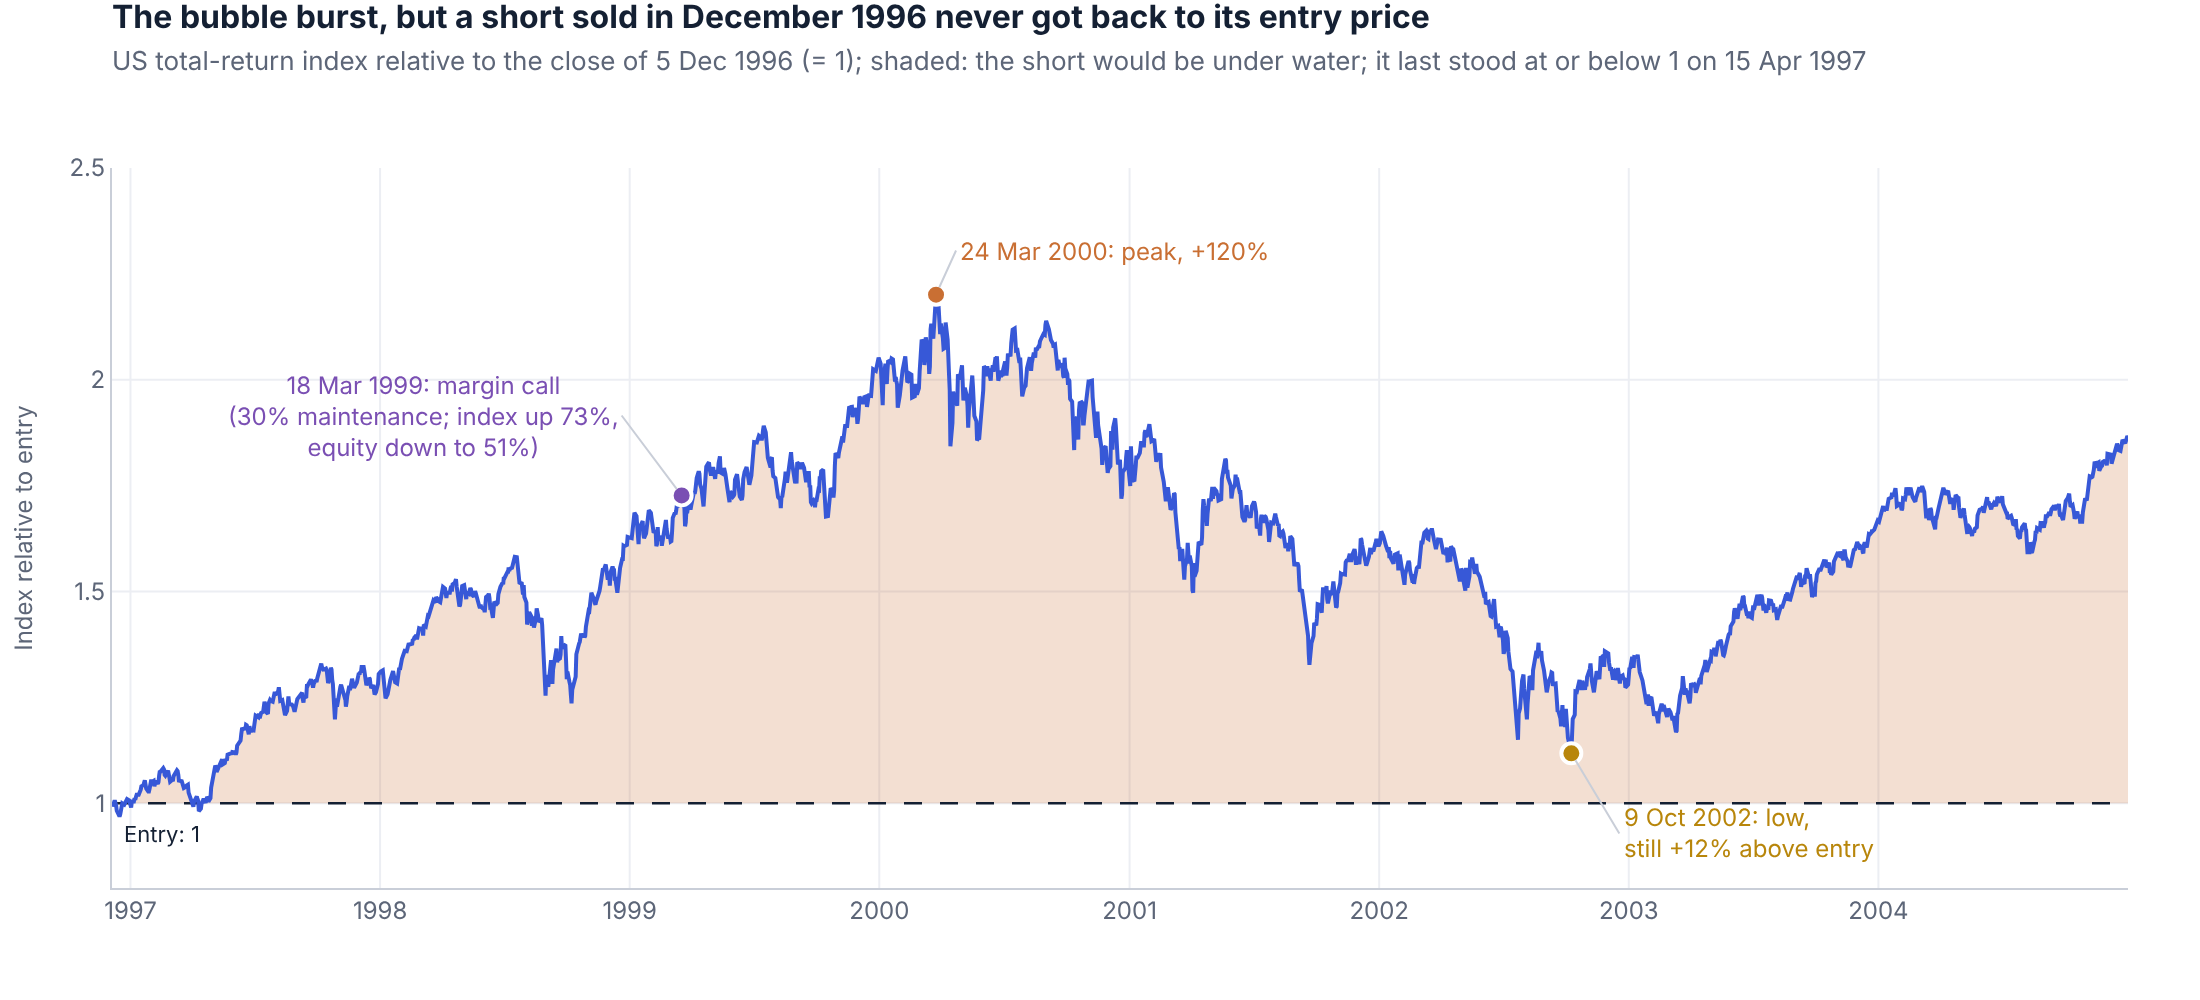
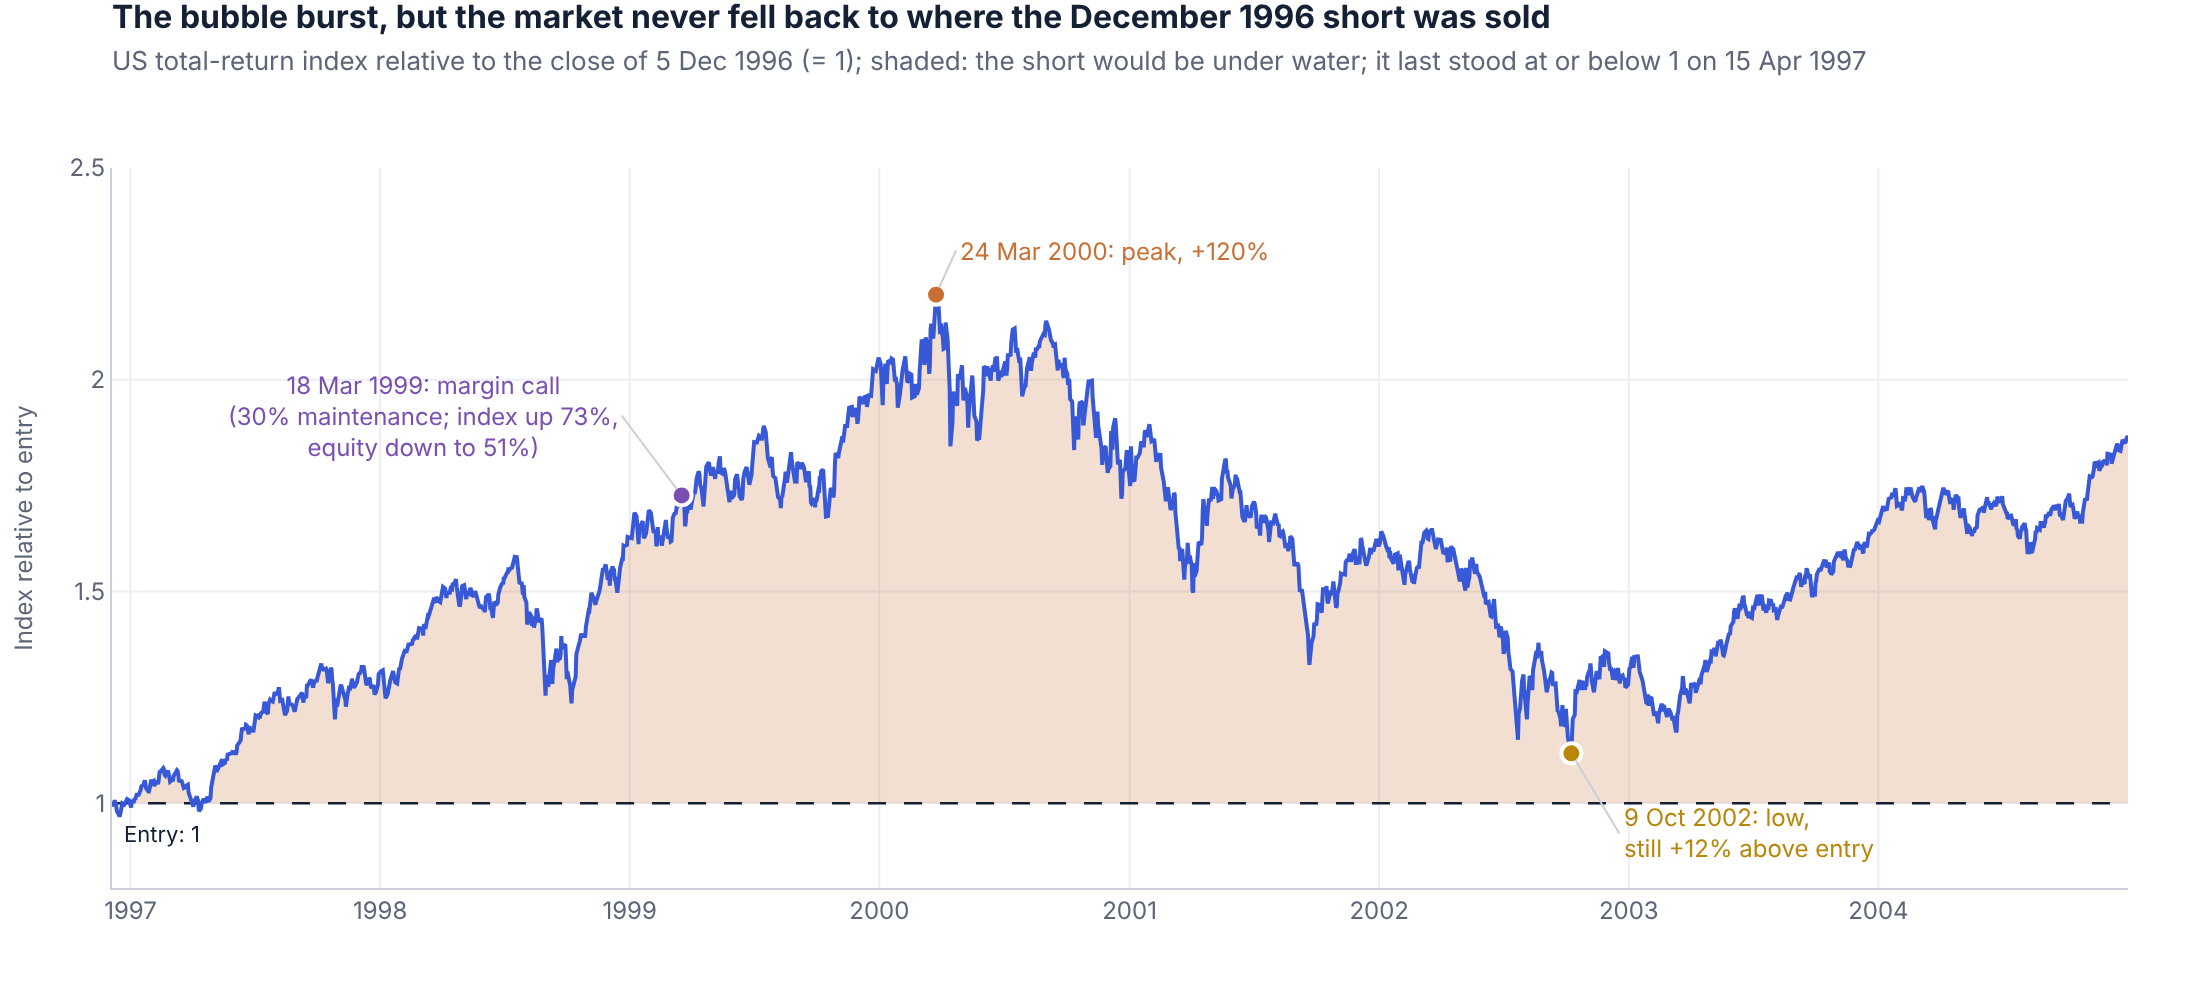
State the total-return short convention; Figure 8 title follows the corrected reading
Claude-Session: https://claude.ai/code/session_01Xkw4Km4MejYDcNMLdGn2oH

Changed region(s): [[0.1855, 0.0, 0.7109, 0.031]]

diff --git a/scripts/make_figures.py b/scripts/make_figures.py
@@ -774,7 +774,7 @@ def fig8():
          "marker": {"size": 10, "color": [PURPLE, ORANGE, GOLD], "line": {"color": "white", "width": 2}}, "hoverinfo": "skip",
          "showlegend": False},
     ]
-    head = "The bubble burst, but a short sold in December 1996 never got back to its entry price"
+    head = "The bubble burst, but the market never fell back to where the December 1996 short was sold"
     sub = (f"US total-return index relative to the close of {fdate(entry)} (= 1); shaded: the short would be under water; "
            f"it last stood at or below 1 on {fdate(last_below)}")
     sub_n = f"US total-return index, 5 Dec 1996 = 1;<br>shaded: a 1× short would be under water"
@@ -789,7 +789,7 @@ def fig8():
                   dstr(low), float(x.loc[low]), 24 if not narrow else 0, 40 if not narrow else 40, anchor="left" if not narrow else "center", color=GOLD),
             note("Entry: 1", dstr(x.index[0]), 1, anchor="left", yanchor="top", yshift=-6, xshift=4, color=INK, size=11),
         ]
-        return base_layout(head if not narrow else "The bubble burst, but the short<br>never got back to its entry price",
+        return base_layout(head if not narrow else "The bubble burst, but the market never<br>fell back to the short's entry",
                            sub if not narrow else sub_n, 500,
                            {"l": 56, "r": 36, "t": 84, "b": 56} if not narrow else {"l": 44, "r": 12, "t": 180, "b": 50},
                            showlegend=narrow, narrow=narrow,

diff --git a/ruin/leverage.py b/ruin/leverage.py
@@ -45,7 +45,11 @@ def margin_loan(r: np.ndarray, rf: np.ndarray, L: float, maintenance: float = 0.
 
     For L > 1 (long with a loan): position value V, debt D grows at rf + spread, equity E = V - D.
     For L < 0 (short sale of |L| units per unit of equity): liability S follows the asset, cash C = 1 + |L|
-    grows at rf, equity E = C - S. A margin call is triggered when E / gross exposure < ``maintenance``.
+    grows at rf, equity E = C - S. With total-return data the short is a short of an accumulating (total-return)
+    instrument: dividends owed are treated as reinvested in the liability rather than paid from cash, which slightly
+    overstates the liability (and makes margin calls slightly earlier) compared with a short of ordinary shares.
+    The cash, including the short-sale proceeds, earns the risk-free rate (an institutional rebate; retail
+    accounts often earn less). A margin call is triggered when E / gross exposure < ``maintenance``.
     action='close': the position is closed at that close (the investor is forced out and keeps E).
     action='restore': the position is cut back to the original leverage L at that close (losses are locked in).
     """
